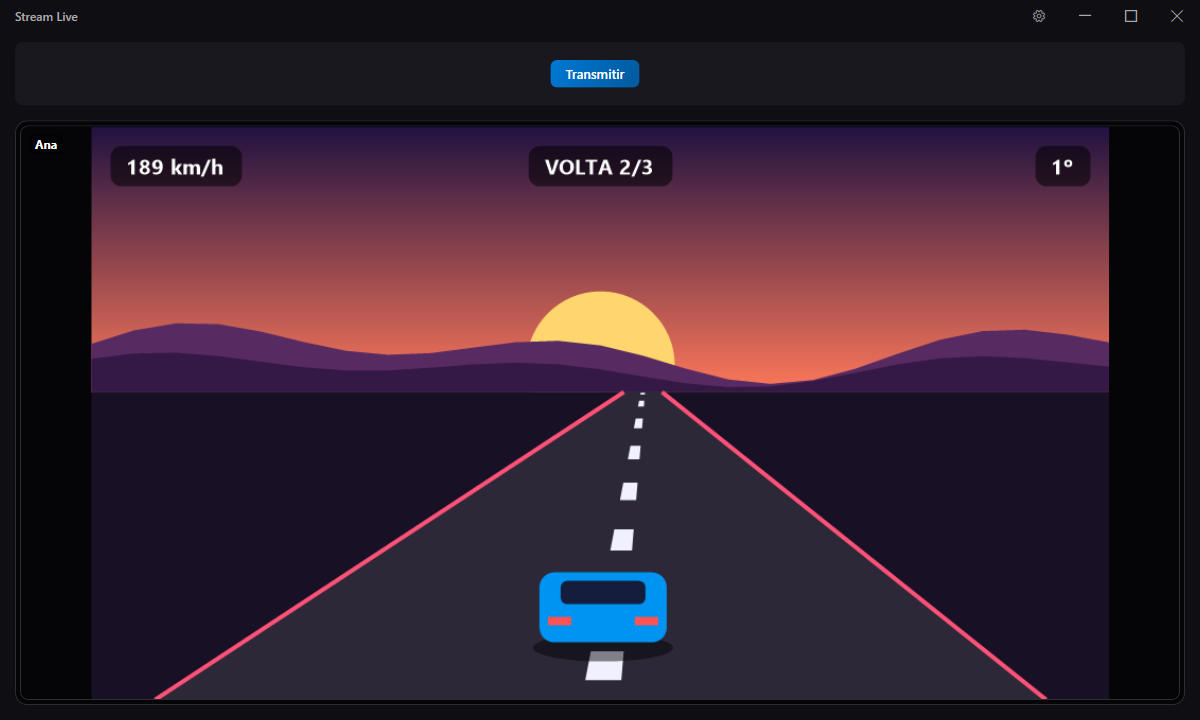
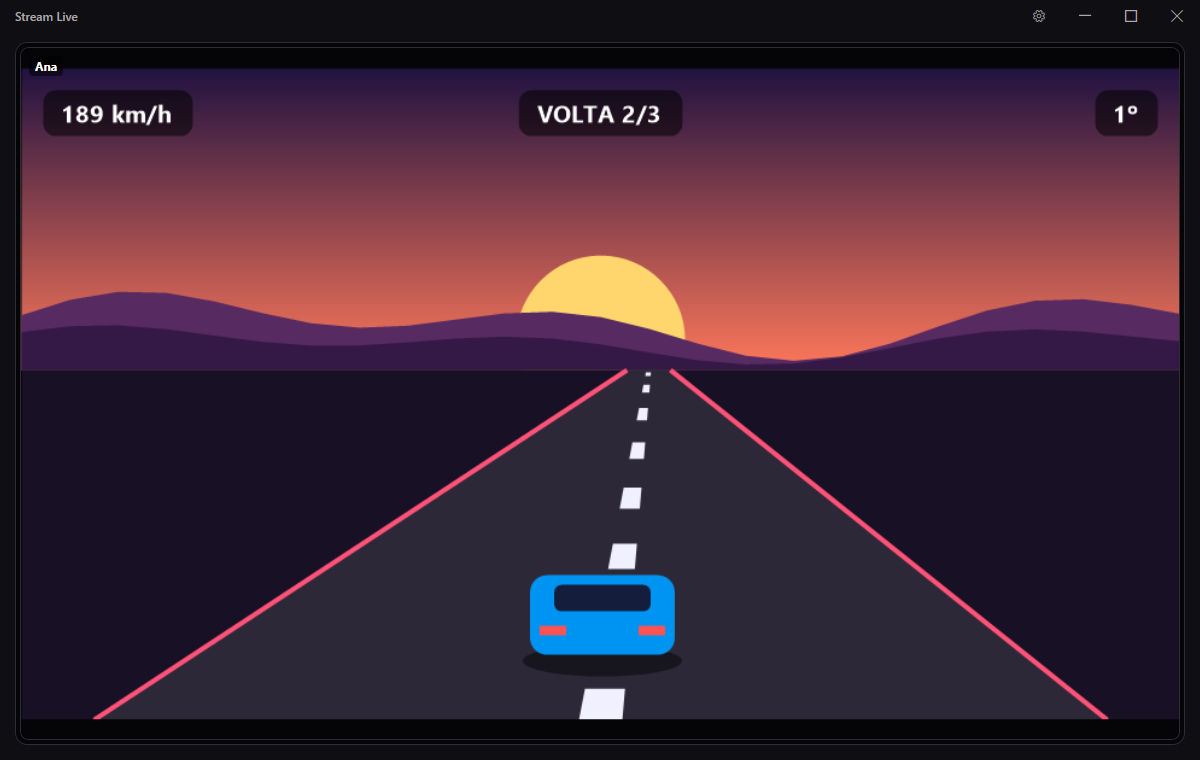
docs: regrava os prints com o card de transmitir
Claude-Session: https://claude.ai/code/session_012u5fdWtQwZ5dmXuYrenNtN

diff --git a/README.md b/README.md
@@ -60,7 +60,7 @@ O projeto nasceu da seguinte necessidade:
 | ![Duas lives lado a lado em grade](docs/images/grade.png) | ![Modal de transmitir com as miniaturas das duas telas, dois amigos marcados e a senha](docs/images/iniciar-transmissao.png) |
 | **Várias lives em grade.** Cada uma com seu volume; um clique foca só nela sem desconectar as outras. | **Transmitir.** Escolha a tela pela miniatura, marque quem pode ver (ninguém marcado = pública) e, se quiser, uma senha. |
 | ![Transmitindo ao vivo, em modo privado, com o preview da própria tela](docs/images/transmitindo.png) | |
-| **Transmitindo.** Selos de *ao vivo* e *privada*, quem está assistindo e o preview da sua transmissão. As lives abertas ficam mudas para o som delas não voltar pela captura. | |
+| **Transmitindo.** O card no canto da lista mostra *ao vivo*, *privada*, a tela e quem está assistindo, com trocar tela, preview e parar. Com a lista recolhida, o selo *AO VIVO* da barra de título traz o card de volta. As lives abertas ficam mudas para o som delas não voltar pela captura. | |
 
 ---
 

diff --git a/CLAUDE.md b/CLAUDE.md
@@ -68,6 +68,10 @@ encoder, no viewer só decodifica. `EnsureCapturers()` só roda no host; `_isHos
 - **Viewer:** `MainWindow` → uma `ViewerSession` por live aberta (várias em grade) →
   `SignalingClient` (Websocket.Client) + `StreamManager`. `ViewerSession` é `INotifyPropertyChanged`
   e a UI faz binding nela; o code-behind do `MainWindow` cuida só de foco, grade, PiP e teatro.
+- **Onde fica o Transmitir:** no card do rodapé da lista de amigos (`BroadcastCard`), não numa
+  faixa no topo. A lista recolhe sozinha com uma live aberta, e o card vai junto; por isso,
+  durante a live, o selo `LiveTitlePill` na barra de título mostra o estado e reabre a lista.
+  A janela abre em 1200×760 (`FitToWorkArea`) para o modal de transmitir caber dentro dela.
 
 ### Transportes (assimétricos de propósito)
 
